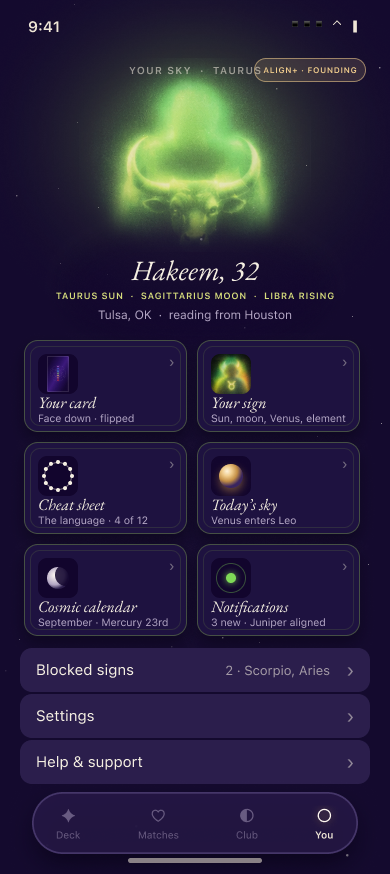
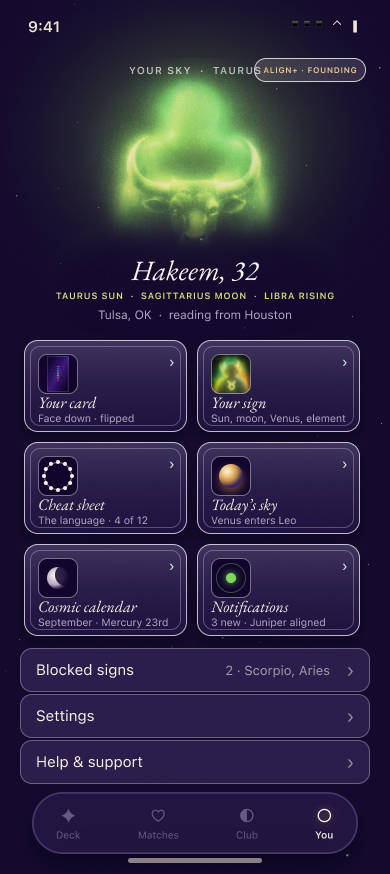
G-05 hub: pearl holo rims, keylines, sheens, row strokes, pill and name
Claude-Session: https://claude.ai/code/session_016YjMTARDAwfH7MsqGSPAVh

diff --git a/design/scores.md b/design/scores.md
@@ -398,3 +398,13 @@ Aries) → P-01, Settings → G-07 and Help & support → G-29; tiles 92 tall so
 the three rows clear the tab bar. The `ALIGN+ · FOUNDING` pill top right opens G-13. The old
 G-05 is renamed `G-05a — Your Card · Face Down`; all 34 You-tab reactions
 point at the hub.
+
+### G-05 hub — the pearl holo pass (2026-09-22, founder note)
+
+"Take more of the holo pearl theme." The four-stop pearl from the holo
+button (`#F6EDFF → #FFF7EC → #EAF4FF → #FFEFF7`) now runs through the hub:
+tile strokes (diagonal, @0.75) and inner keylines (@0.28), a top-down
+pearl sheen on every tile (0.16 → 0), pearl rims on the tile visuals, pearl
+chevrons, pearl strokes on the three rows (@0.32), the Align+ pill's fill
+and stroke, and the name *Hakeem, 32* set in the pearl gradient. The Taurus
+green stays on the spotlight and the big three only.
